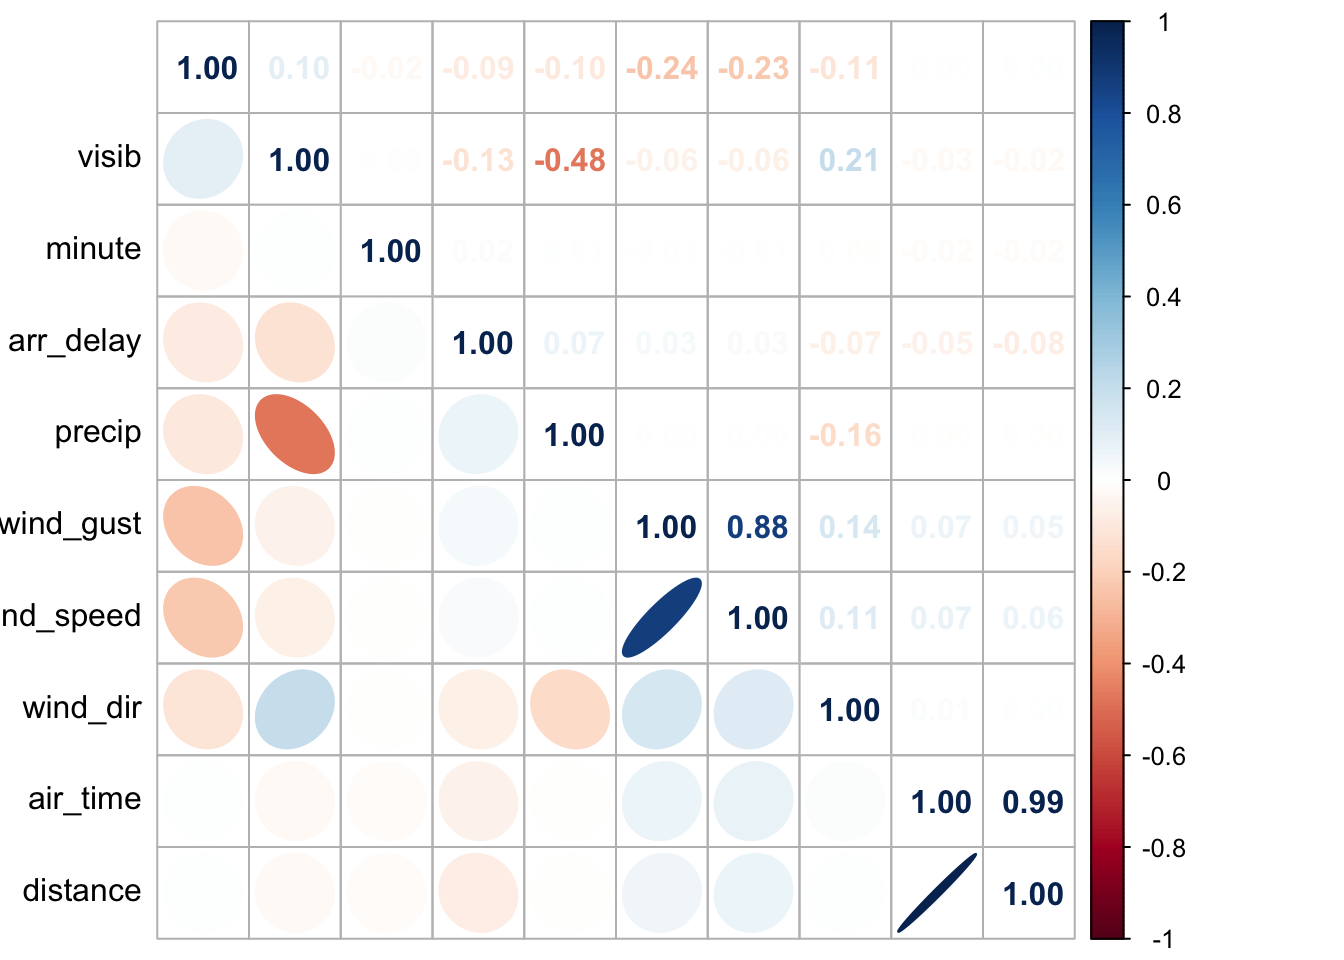
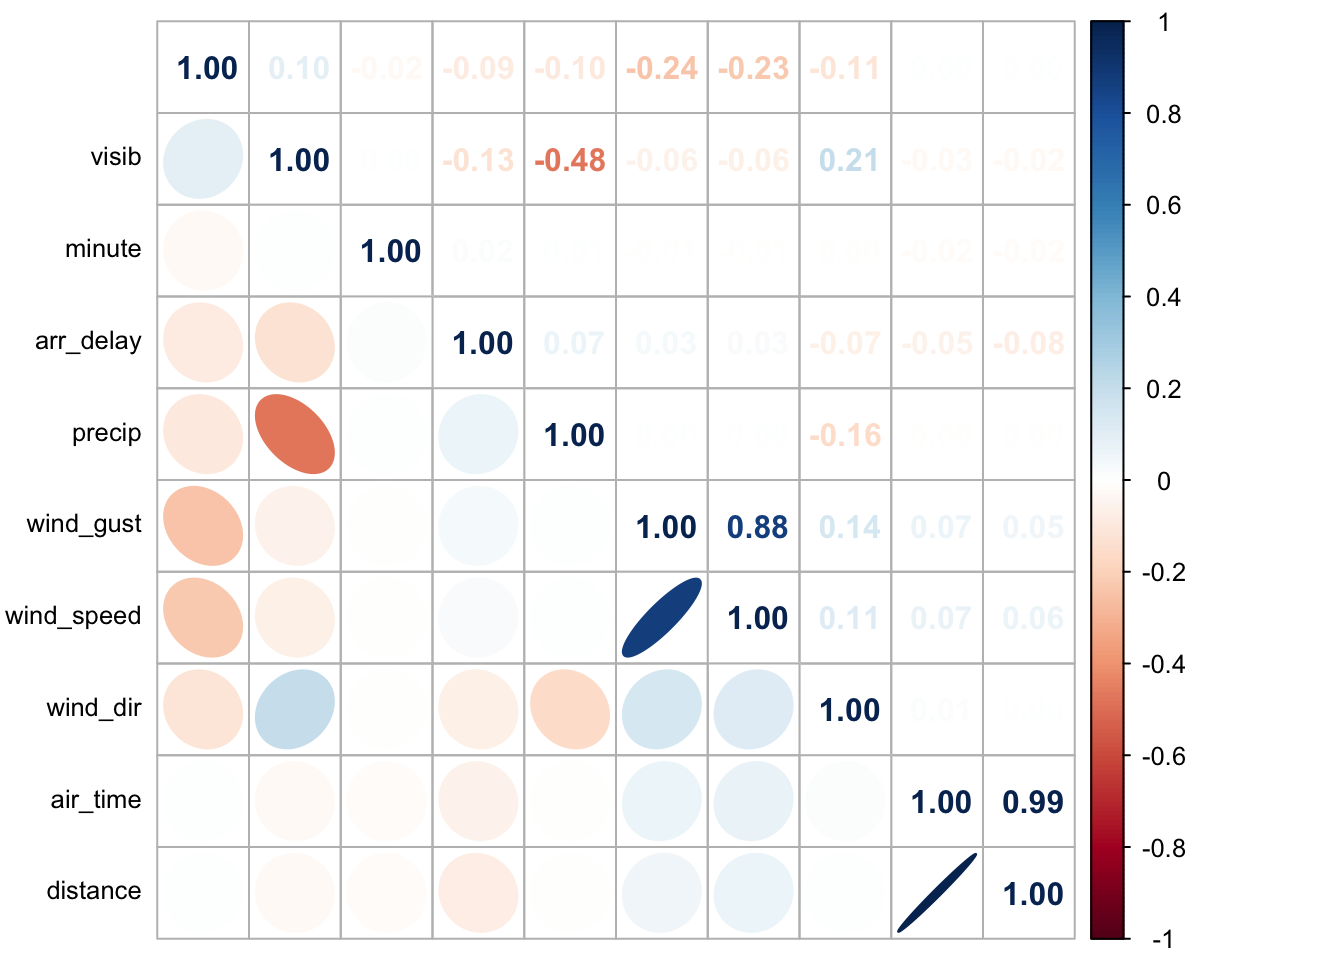
add comments on MLR file

diff --git a/MLR.html b/MLR.html
@@ -9,11 +9,10 @@
 <meta http-equiv="X-UA-Compatible" content="IE=EDGE" />
 
 
-<meta name="author" content="Qi Yumeng" />
+<meta name="author" content="Yumeng Qi &amp; Jiying Wang" />
 
-<meta name="date" content="2023-12-07" />
 
-<title>MLR</title>
+<title>Mutiple Linear Regression</title>
 
 <script src="site_libs/header-attrs-2.25/header-attrs.js"></script>
 <script src="site_libs/jquery-3.6.0/jquery-3.6.0.min.js"></script>
@@ -32,6 +31,7 @@
        code {color: inherit; background-color: rgba(0, 0, 0, 0.04);}
        pre:not([class]) { background-color: white }</style>
 <script src="site_libs/navigation-1.1/tabsets.js"></script>
+<script src="site_libs/navigation-1.1/codefolding.js"></script>
 <link href="site_libs/highlightjs-9.12.0/default.css" rel="stylesheet" />
 <script src="site_libs/highlightjs-9.12.0/highlight.js"></script>
 <link href="site_libs/font-awesome-6.4.2/css/all.min.css" rel="stylesheet" />
@@ -220,6 +220,9 @@ $(document).ready(function () {
 </style>
 
 <!-- code folding -->
+<style type="text/css">
+.code-folding-btn { margin-bottom: 4px; }
+</style>
 
 
 
@@ -249,8 +252,15 @@ $(document).ready(function () {
         
       </ul>
       <ul class="nav navbar-nav navbar-right">
-        <li>
-  <a href="about.html">About</a>
+        <li class="dropdown">
+  <a href="#" class="dropdown-toggle" data-toggle="dropdown" role="button" data-bs-toggle="dropdown" aria-expanded="false">
+    About
+     
+    <span class="caret"></span>
+  </a>
+  <ul class="dropdown-menu" role="menu">
+    <li class="dropdown-header">Us</li>
+  </ul>
 </li>
 <li>
   <a href="report.html">Final Report</a>
@@ -292,29 +302,97 @@ $(document).ready(function () {
 
 <div id="header">
 
+<div class="btn-group pull-right float-right">
+<button type="button" class="btn btn-default btn-xs btn-secondary btn-sm dropdown-toggle" data-toggle="dropdown" data-bs-toggle="dropdown" aria-haspopup="true" aria-expanded="false"><span>Code</span> <span class="caret"></span></button>
+<ul class="dropdown-menu dropdown-menu-right" style="min-width: 50px;">
+<li><a id="rmd-show-all-code" href="#">Show All Code</a></li>
+<li><a id="rmd-hide-all-code" href="#">Hide All Code</a></li>
+</ul>
+</div>
 
 
-<h1 class="title toc-ignore">MLR</h1>
-<h4 class="author">Qi Yumeng</h4>
-<h4 class="date">2023-12-07</h4>
+
+<h1 class="title toc-ignore">Mutiple Linear Regression</h1>
+<h4 class="author">Yumeng Qi &amp; Jiying Wang</h4>
 
 </div>
 
 
+<p>In this section, our objective is to elucidate the connection between
+flight-related information and flight delays within the framework of
+linear regression. Adhering to the model’s assumptions, our initial step
+involves computing pairwise correlation coefficients to mitigate the
+impact of multicollinearity. Pairs exhibiting coefficients exceeding 0.8
+are deemed highly correlated, signifying the potential to introduce
+distortion into the model. Subsequently, we conducted stepwise
+regression selection, minimizing the Akaike Information Criterion (AIC).
+This stepwise approach assists in refining the model by iteratively
+adding or removing variables, ensuring a more parsimonious and
+statistically robust representation of the relationship between the
+variables and flight delays.</p>
+<div id="correlation-coefficient" class="section level1">
+<h1>Correlation Coefficient</h1>
+<p>Upon examining the plot, we observed two pairs with correlation
+coefficients surpassing 0.8: namely, wind_gust and wind_speed, and
+air_time and distance. The presence of highly correlated pairs suggests
+a potential for one variable to be essentially substituted by another in
+the model, which leads to the problem of multicollinearity. In the
+presence of multicollinearity, the estimates of individual regression
+coefficients become sensitive to small changes in the data. This
+sensitivity can lead to coefficients with large standard errors and
+reduced statistical significance. Also, it inflates the variance of the
+regression coefficients, making them less precise. This increased
+variance can result in wider confidence intervals, making it more
+challenging to draw reliable conclusions about the effects of individual
+predictors.</p>
 <pre class="r"><code>df_2013_mlr = df_2013_mlr |&gt;
   mutate_if(is.numeric, scale) 
-# no correlation coefficient larger than 0.8
-# so no need for deleting 
+
+
 M = cor(df_2013_mlr |&gt; select_if(is.numeric))
 corrplot(M, order = &#39;AOE&#39;, type = &#39;upper&#39;, tl.pos = &#39;n&#39;, method = &quot;number&quot;)
 corrplot(M, add = TRUE, type = &#39;lower&#39;, method = &#39;ellipse&#39;, order = &#39;AOE&#39;,
-         diag = FALSE, tl.pos = &#39;l&#39;, cl.pos = &#39;n&#39;,tl.col=&#39;black&#39;)</code></pre>
+         diag = FALSE, tl.pos = &#39;l&#39;, cl.pos = &#39;n&#39;,tl.col=&#39;black&#39;,tl.cex = 0.8)</code></pre>
 <p><img src="MLR_files/figure-html/scale-1.png" width="672" style="display: block; margin: auto;" /></p>
 <pre class="r"><code>#corrplot(cor(df_2013_mlr |&gt; select_if(is.numeric)),  method = &quot;number&quot;)
-# delete distance and wind_speed for less unqiue value
-
-df_2013_mlr = df_2013_mlr |&gt;
- dplyr::select(-wind_speed,-distance)</code></pre>
+# delete distance and wind_speed for less unqiue value</code></pre>
+<p>In response to this correlation finding, we conducted an assessment
+based on the unique values of each variable within these pairs. The
+rationale was to retain the variable with a greater number of unique
+values, indicative of a broader range of information. Consequently, we
+decided to eliminate wind_speed and distance from the analysis, aiming
+to enhance the model’s stability and interpretability by resolving
+multicollinearity issues.</p>
+<table>
+<colgroup>
+<col width="6%" />
+<col width="23%" />
+<col width="26%" />
+<col width="21%" />
+<col width="21%" />
+</colgroup>
+<thead>
+<tr class="header">
+<th>highly correlated variables</th>
+<th>wind_gust</th>
+<th>wind_speed</th>
+<th>air_time</th>
+<th>distance</th>
+</tr>
+</thead>
+<tbody>
+<tr class="odd">
+<td>unique cnt</td>
+<td>33</td>
+<td>30</td>
+<td>462</td>
+<td>177</td>
+</tr>
+</tbody>
+</table>
+</div>
+<div id="stepwise-regression" class="section level1">
+<h1>Stepwise Regression</h1>
 <pre class="r"><code>fit_AIC = lm(formula = arr_delay ~ origin + hour + carrier + dest + air_time + minute + 
     wind_dir + pressure + visib + arrival_date,
     data = df_2013_mlr)
@@ -2797,6 +2875,7 @@ F Statistic
 </td>
 </tr>
 </table>
+</div>
 
 
 
@@ -2831,6 +2910,11 @@ $(document).ready(function () {
 </script>
 
 <!-- code folding -->
+<script>
+$(document).ready(function () {
+  window.initializeCodeFolding("hide" === "show");
+});
+</script>
 
 
 <!-- dynamically load mathjax for compatibility with self-contained -->

diff --git a/Prediction_v2.html b/Prediction_v2.html
@@ -9,10 +9,10 @@
 <meta http-equiv="X-UA-Compatible" content="IE=EDGE" />
 
 
-<meta name="author" content="Qi Yumeng &amp; Jiying Wang" />
+<meta name="author" content="Yumeng Qi &amp; Jiying Wang" />
 
 
-<title>Prediction_v2</title>
+<title>Prediction Flights Delay</title>
 
 <script src="site_libs/header-attrs-2.25/header-attrs.js"></script>
 <script src="site_libs/jquery-3.6.0/jquery-3.6.0.min.js"></script>
@@ -312,8 +312,8 @@ $(document).ready(function () {
 
 
 
-<h1 class="title toc-ignore">Prediction_v2</h1>
-<h4 class="author">Qi Yumeng &amp; Jiying Wang</h4>
+<h1 class="title toc-ignore">Prediction Flights Delay</h1>
+<h4 class="author">Yumeng Qi &amp; Jiying Wang</h4>
 
 </div>
 
